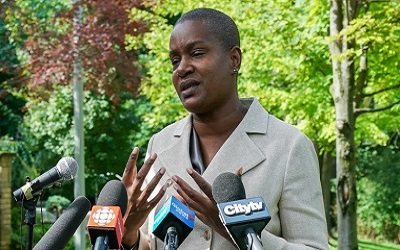
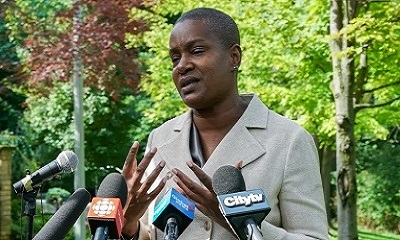
fixed image

diff --git a/styles.css b/styles.css
@@ -254,7 +254,7 @@ footer {
 
 /* Used in pages: Blogs*/
 .responsive-image-blogs-recent {
-  width: 49%;
+  width: 51.1%;
   height: auto;
 }
 
